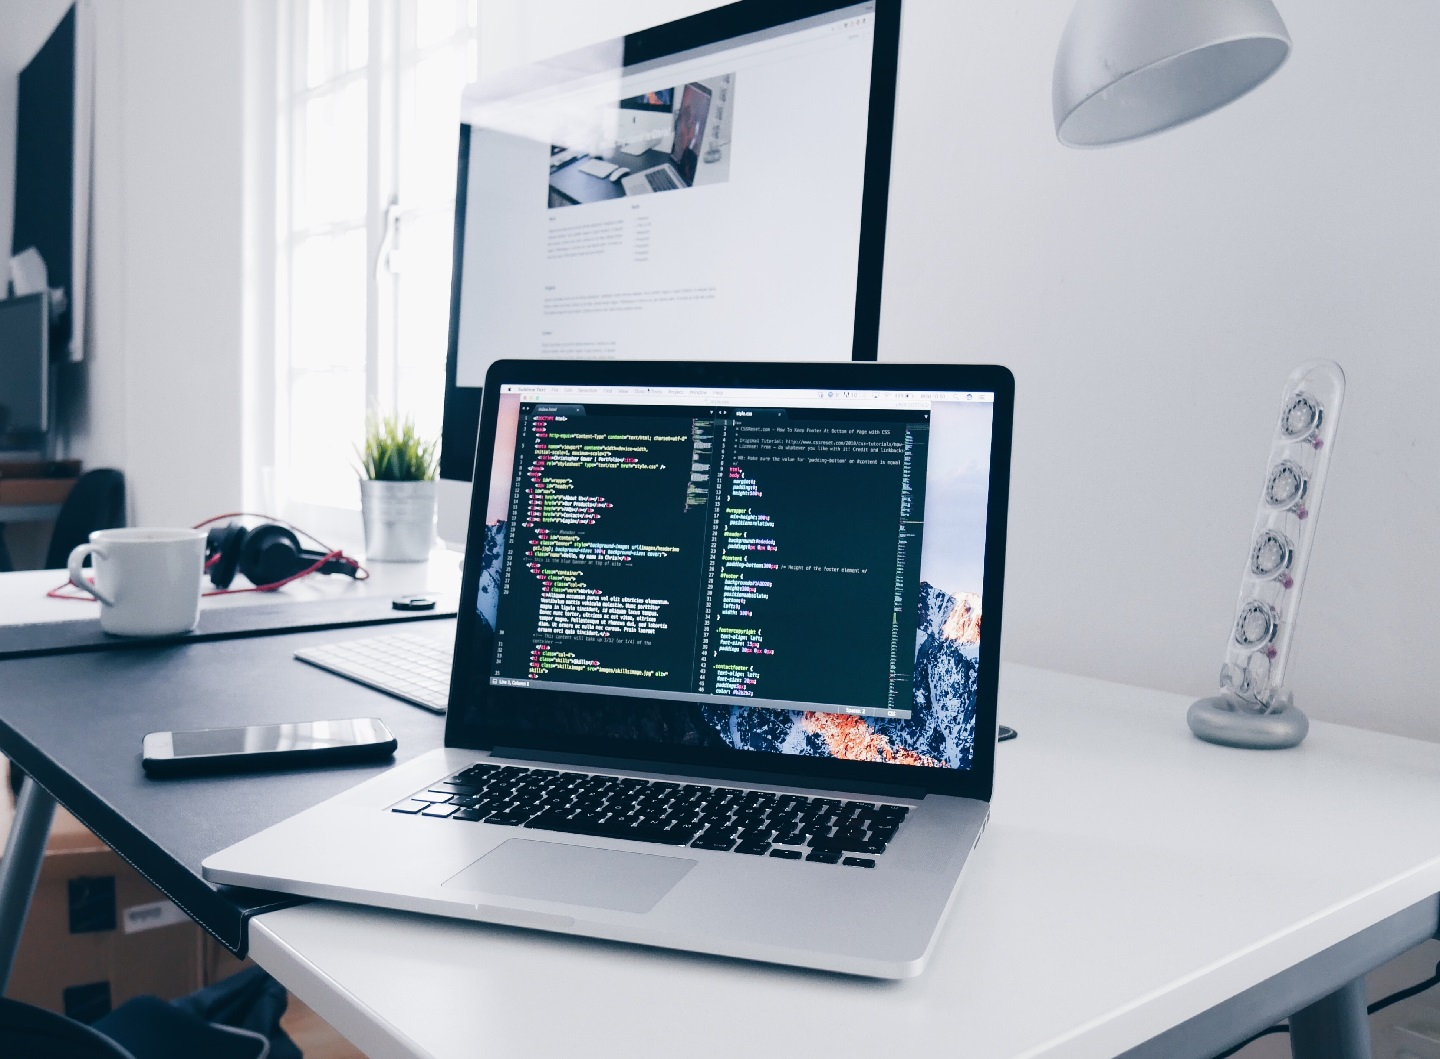
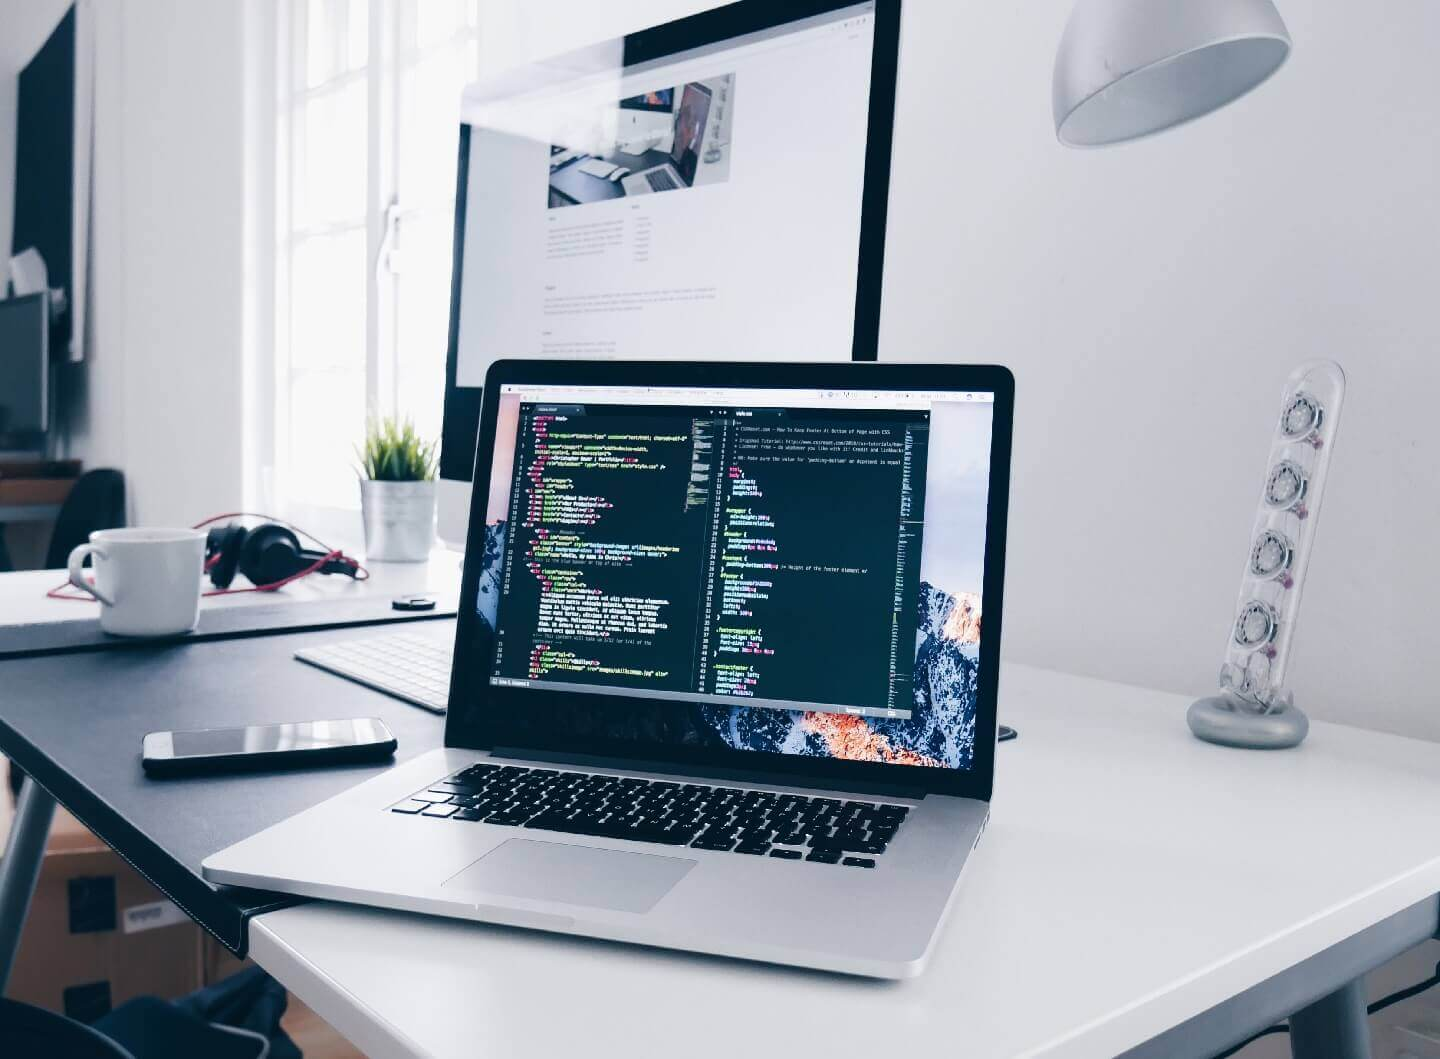
compressed hero bg

diff --git a/frontend/src/pages/index.tsx b/frontend/src/pages/index.tsx
@@ -8,33 +8,15 @@ import { productsData } from "../data/products.data";
 import { TeamData } from "../data/team.data";
 
 const LandingPage = () => {
-	const [pageIsLoaded, setPageIsLoaded] = useState(false);
-
+	const [loaded, setLoaded] = useState(false);
 	useEffect(() => {
-		// toggles state of isLoading & run once!
-		const toggleLoading = () => {
-			setPageIsLoaded(true);
-		};
-
-		// check state of resources if already loaded.
-		if (document.readyState === "complete") {
-			setPageIsLoaded(true);
-		}
-		// else add an event listener and call fxn.
-		else {
-			window.addEventListener("load", toggleLoading);
-		}
-
-		// console.log(document.readyState);
-
-		// return window.removeEventListener("load", toggleLoading);
-	}, []);
-
-	console.log(pageIsLoaded);
-
+		window.addEventListener("load", () => {
+			setLoaded(true);
+		});
+	});
 	return (
 		<>
-			{pageIsLoaded ? (
+			{loaded ? (
 				<FrontLayout>
 					<div className="landing-page" id="home">
 						<div className="home-hero">
@@ -135,7 +117,7 @@ const LandingPage = () => {
 					</div>
 				</FrontLayout>
 			) : (
-				<p>Loading...</p>
+				<p>loading...</p>
 			)}
 		</>
 	);
